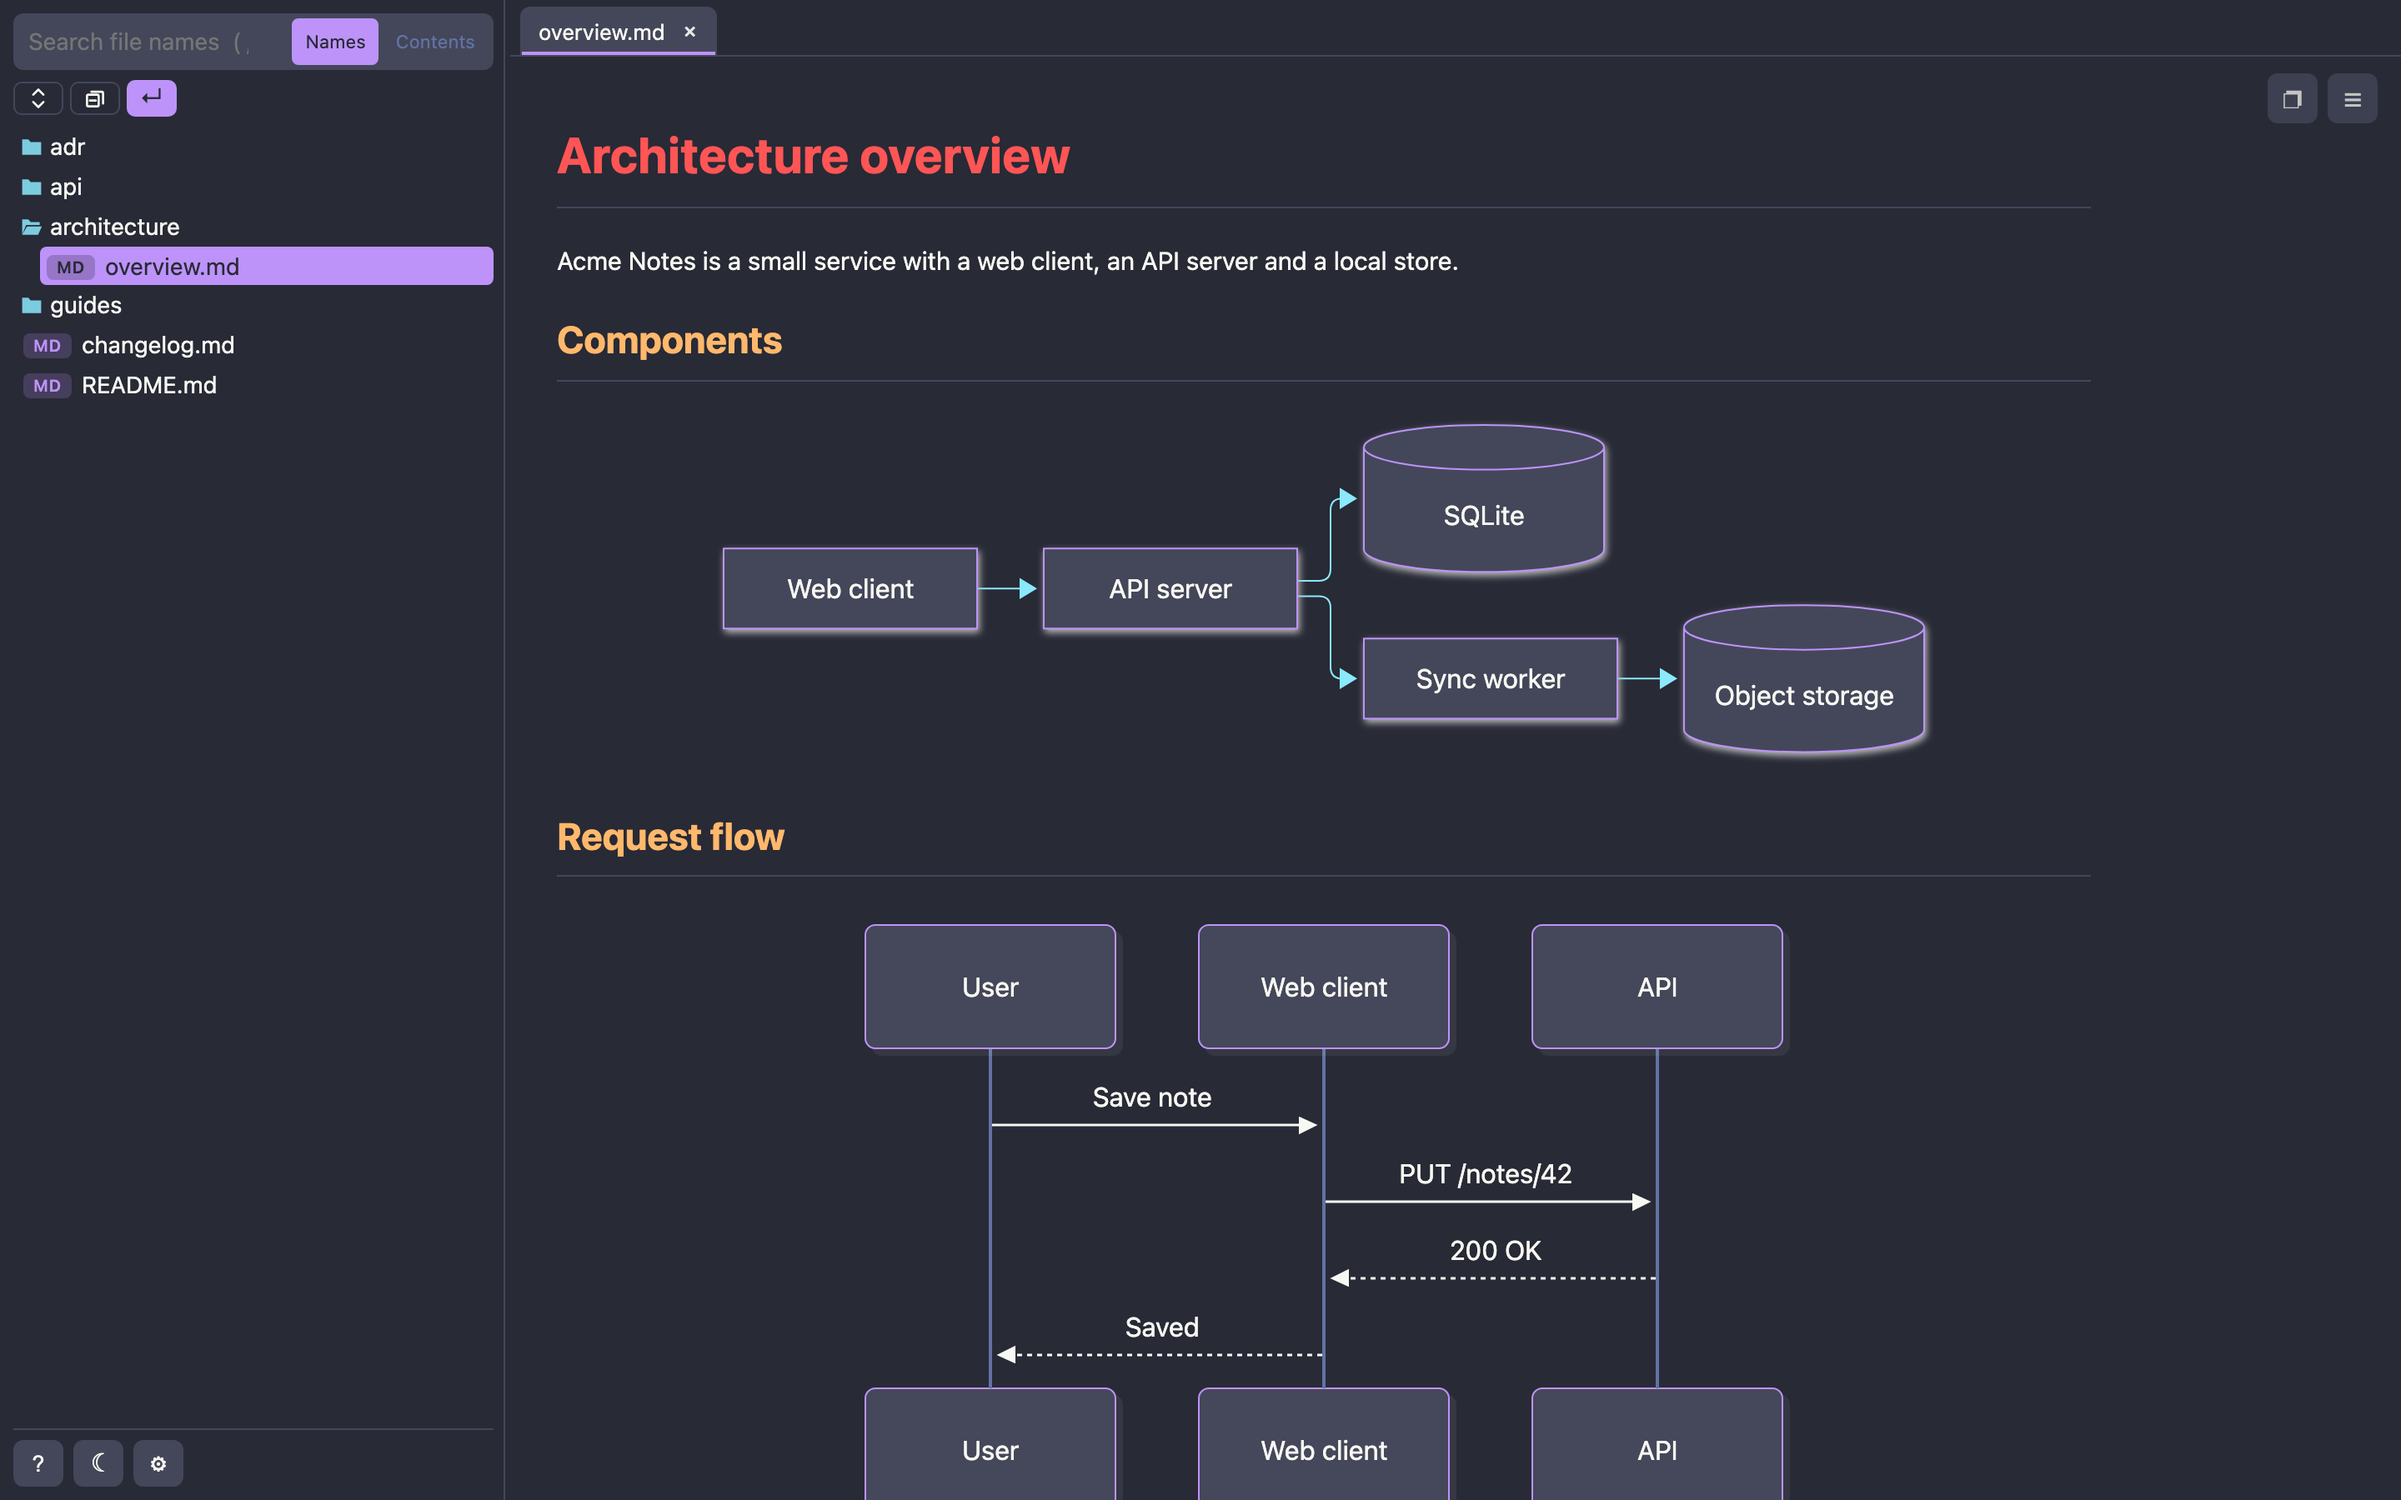
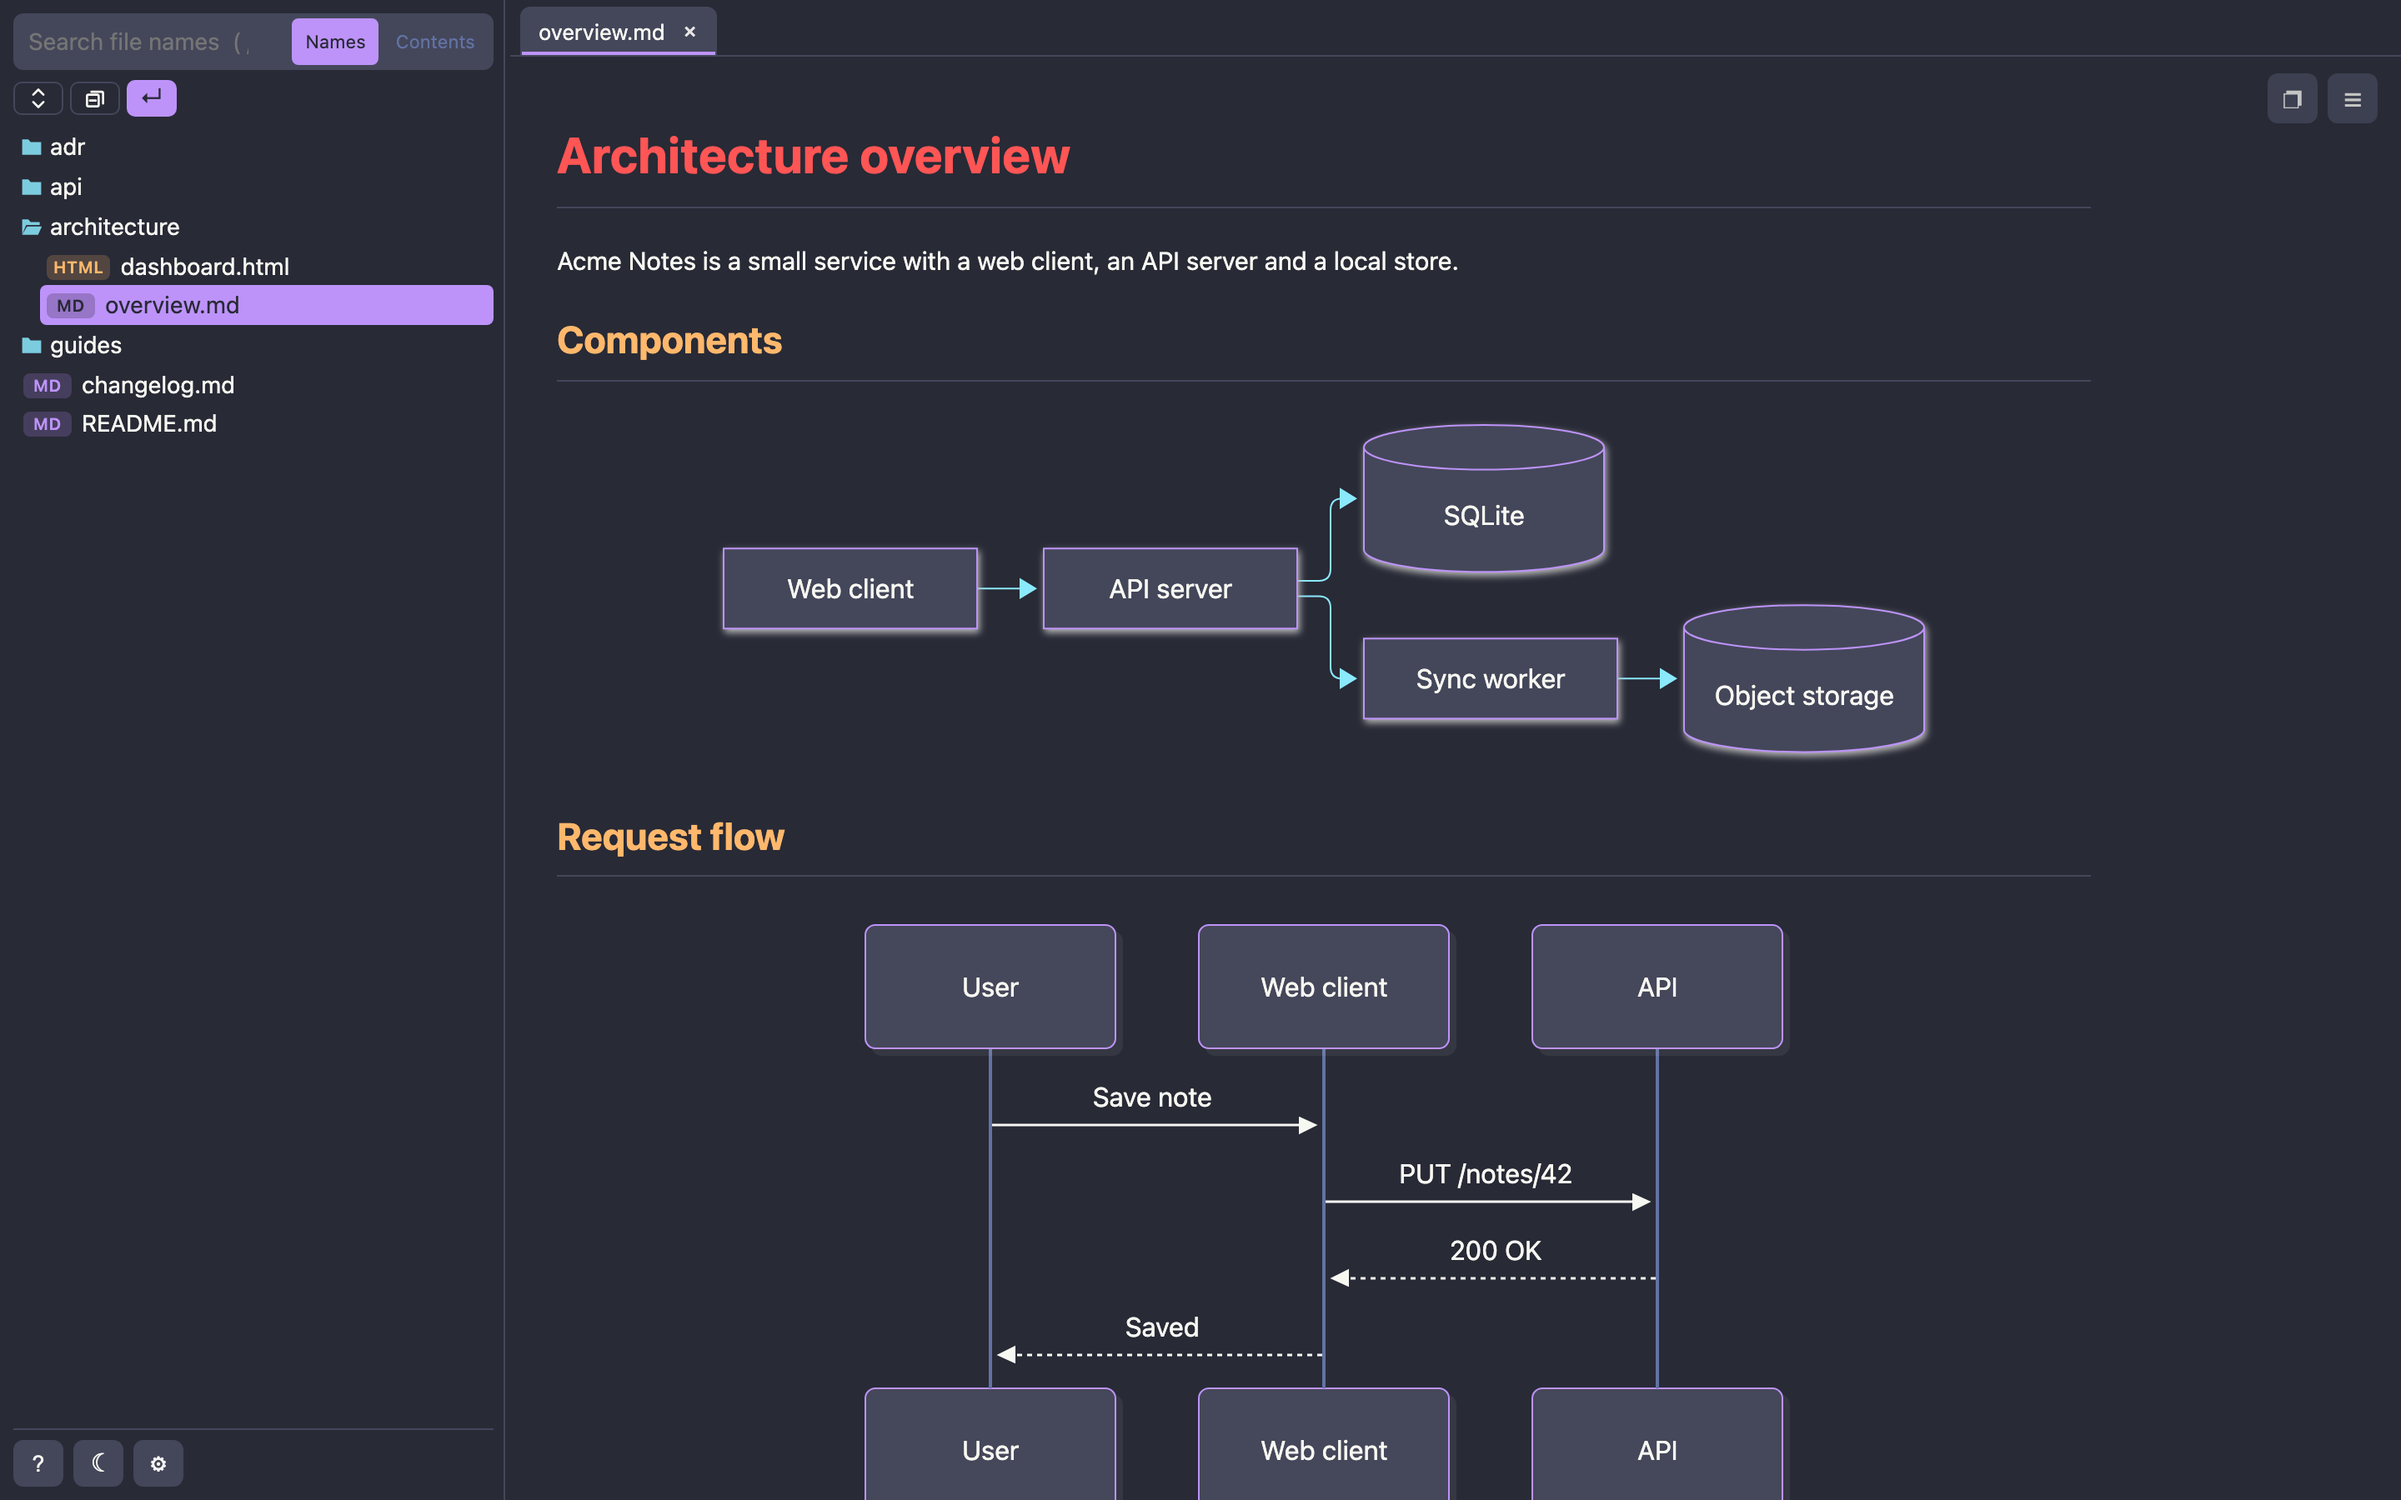
docs: add HTML preview screenshot and demo HTML page
Claude-Session: https://claude.ai/code/session_019LG6GLPGxjMnNAWEwiLPfi

Changed region(s): [[0.0, 0.1556, 0.2188, 0.3111]]

diff --git a/examples/demo-docs/architecture/dashboard.html b/examples/demo-docs/architecture/dashboard.html
@@ -1,0 +1,38 @@
+<!DOCTYPE html>
+<html lang="en">
+<head>
+<meta charset="utf-8">
+<title>Acme Notes status (demo)</title>
+<style>
+  body { font: 15px/1.5 -apple-system, "Segoe UI", sans-serif; margin: 0; padding: 32px; background: #f4f1fb; color: #2b2540; }
+  h1 { margin: 0 0 4px; font-size: 26px; }
+  p.sub { margin: 0 0 24px; color: #6b6585; }
+  .grid { display: grid; grid-template-columns: repeat(3, 1fr); gap: 16px; margin-bottom: 24px; }
+  .card { background: #fff; border-radius: 12px; padding: 18px 20px; box-shadow: 0 2px 8px rgba(80, 60, 140, .12); }
+  .card b { display: block; font-size: 30px; color: #6c3fd1; }
+  .card span { color: #6b6585; font-size: 13px; }
+  .panel { background: #fff; border-radius: 12px; padding: 20px; box-shadow: 0 2px 8px rgba(80, 60, 140, .12); }
+  .bar { display: flex; align-items: center; gap: 12px; margin: 10px 0; }
+  .bar i { display: block; height: 14px; border-radius: 7px; background: linear-gradient(90deg, #8b5cf6, #ec4899); }
+  .bar em { width: 90px; font-style: normal; color: #6b6585; }
+  .ok { color: #168a4b; font-weight: 600; }
+</style>
+</head>
+<body>
+  <h1>Acme Notes status</h1>
+  <p class="sub">Fictional demo page &middot; plain HTML and CSS, rendered in a sandboxed frame</p>
+  <div class="grid">
+    <div class="card"><b>1,284</b><span>Notes stored</span></div>
+    <div class="card"><b>42 ms</b><span>Median search time</span></div>
+    <div class="card"><b class="ok">Healthy</b><span>Sync worker</span></div>
+  </div>
+  <div class="panel">
+    <h3 style="margin-top:0">Notes created per weekday</h3>
+    <div class="bar"><em>Monday</em><i style="width:62%"></i></div>
+    <div class="bar"><em>Tuesday</em><i style="width:78%"></i></div>
+    <div class="bar"><em>Wednesday</em><i style="width:91%"></i></div>
+    <div class="bar"><em>Thursday</em><i style="width:70%"></i></div>
+    <div class="bar"><em>Friday</em><i style="width:48%"></i></div>
+  </div>
+</body>
+</html>

diff --git a/README.md b/README.md
@@ -6,6 +6,8 @@ a file changes. One static binary, no configuration file, no network access need
 
 ![docs-browser showing a Markdown page with Mermaid diagrams (dark theme)](docs/images/screenshot-dark.png)
 
+![docs-browser showing an HTML file in a sandboxed frame](docs/images/screenshot-html.png)
+
 <sub>Screenshots use the fictional demo docs in `examples/demo-docs`. Light theme: [docs/images/screenshot-light.png](docs/images/screenshot-light.png). Regenerate with `docs-browser examples/demo-docs --port 4790` and `node tests/screenshot.mjs`.</sub>
 
 ```bash
